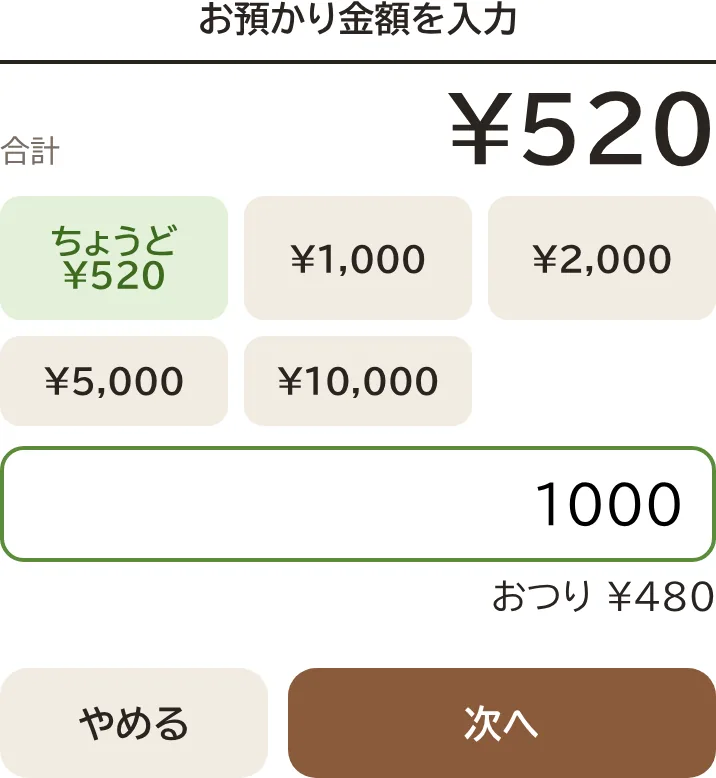
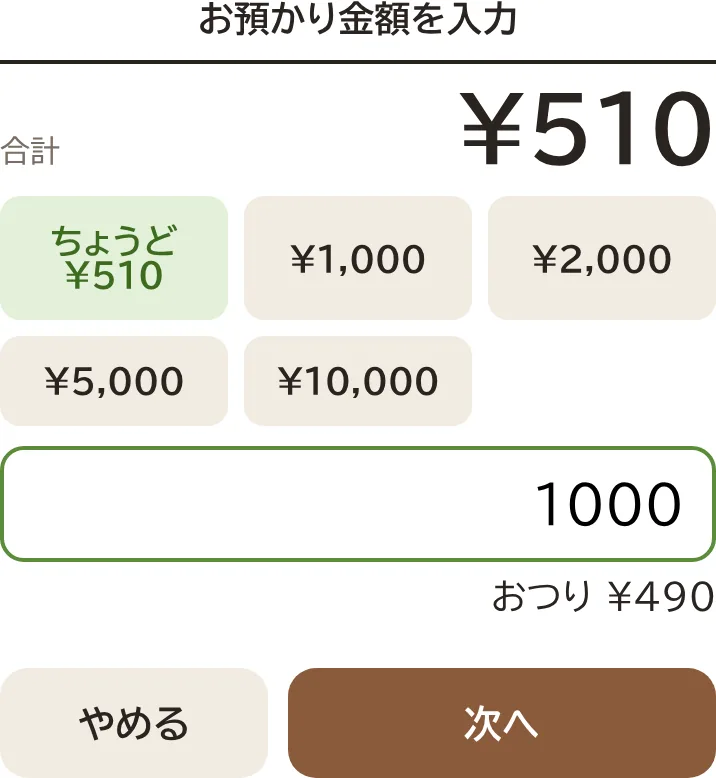
容器代を3本以上は一律1個（10円）に変更
- 容器代のルールに「容器の最大個数」（maxCount、0 = 上限なし）を追加し、初期値を1個に
- 管理画面の容器代のルールで最大個数を変更可能に（操作の記録にも残す）
- レジのヘルプ・README・スクリーンショットを新しい金額に更新
- Service Worker の VERSION を更新（レジが新しい計算に切り替わるように）

Claude-Session: https://claude.ai/code/session_01UZ9qf5eckTM6QSHGE7TDTL

Changed region(s): [[0.6145, 0.0925, 0.8911, 0.2159], [0.0922, 0.3393, 0.2458, 0.3702], [0.9218, 0.7404, 0.9525, 0.8021]]

diff --git a/public/admin.html b/public/admin.html
@@ -395,8 +395,8 @@
 
   <details>
     <summary>「あと1本で〜お得」と出たら？</summary>
-    <figure class="narrow"><img src="/help/reg-cart.webp" width="370" height="193" loading="lazy" alt="お会計欄。団子4本（3本セットと1本）、容器代10円、合計560円。あと1本で40円お得という提案と、5本にするボタン"></figure>
-    <p>本数を少し足したほうが合計が安くなるときに出る提案です。上の例では、団子4本だと560円ですが、5本にすると520円で40円安くなります。</p>
+    <figure class="narrow"><img src="/help/reg-cart.webp" width="370" height="193" loading="lazy" alt="お会計欄。団子4本（3本セットと1本）、容器代10円、合計560円。あと1本で50円お得という提案と、5本にするボタン"></figure>
+    <p>本数を少し足したほうが合計が安くなるときに出る提案です。上の例では、団子4本だと560円ですが、5本にすると510円で50円安くなります。</p>
     <p>お客さんに「あと1本足すとお得になりますよ」と声をかけて、希望されたら黄色の「5本にする」ボタンを押してください。そのままでよければ、何もせず会計に進んでかまいません。</p>
   </details>
 
@@ -405,11 +405,9 @@
     <p>容器代は、1回の会計の<b>団子の本数</b>から<b>自動で</b>計算して、合計に足しています（焼きマシュマロは対象外です。対象の商品とルールは管理画面で変えられます）。</p>
     <ul>
       <li>1〜2本: なし</li>
-      <li>3〜4本: 10円</li>
-      <li>5〜8本: 20円</li>
-      <li>9〜12本: 30円（以降4本ごとに10円ずつ増える）</li>
+      <li>3本以上: 10円（何本でも容器1個分）</li>
     </ul>
-    <p>容器がいらないお客さんなど、変える必要があるときは、容器代の「−」「＋」で10円ずつ直せます。直すと「手動」と表示され、「自動に戻す」で元に戻せます。本数を変えたときも自動に戻ります。</p>
+    <p>容器を2個以上渡すときや、容器がいらないお客さんなど、変える必要があるときは、容器代の「−」「＋」で10円ずつ直せます。直すと「手動」と表示され、「自動に戻す」で元に戻せます。本数を変えたときも自動に戻ります。</p>
   </details>
 
   <details>
@@ -421,13 +419,13 @@
 
   <details>
     <summary>現金のとき（お預かりとおつり）は？</summary>
-    <figure class="narrow"><img src="/help/reg-recv.webp" width="358" height="389" loading="lazy" alt="お預かり金額の入力画面。合計520円、ちょうどや1,000円などのボタン、入力欄、おつり480円の表示"></figure>
+    <figure class="narrow"><img src="/help/reg-recv.webp" width="358" height="389" loading="lazy" alt="お預かり金額の入力画面。合計510円、ちょうどや1,000円などのボタン、入力欄、おつり490円の表示"></figure>
     <p>現金では、先に<b>お預かり金額</b>を入れます。「ちょうど」や「¥1,000」などのボタンを押すか、下の欄に金額を入力してください。入れるとおつりが表示されます。合計より少ない金額では「次へ」が押せません。</p>
   </details>
 
   <details>
     <summary>確認画面では何を見ればいい？</summary>
-    <figure class="narrow"><img src="/help/reg-confirm.webp" width="358" height="451" loading="lazy" alt="確認画面。現金の表示、団子5本セット500円、容器代20円、合計520円、お預かり1,000円、おつり480円、いいえとはいのボタン"></figure>
+    <figure class="narrow"><img src="/help/reg-confirm.webp" width="358" height="451" loading="lazy" alt="確認画面。現金の表示、団子5本セット500円、容器代10円、合計510円、お預かり1,000円、おつり490円、いいえとはいのボタン"></figure>
     <p>いちばん上の色つきの帯が支払方法です（現金は緑、PayPay と d払いは赤）。本数、合計金額、現金ならおつりを確かめて、よければ「はい（記録する）」を押します。</p>
     <p>間違いに気づいたら「いいえ」を押すと、入力したお会計はそのままで前の画面に戻ります。現金で、お預かり金額だけを直したいときは「← お預かり金額を入力し直す」を押してください。</p>
   </details>

diff --git a/public/master.html b/public/master.html
@@ -132,7 +132,8 @@
     <h2>容器代のルール</h2>
     <div class="rule">
       容器代の対象が <input id="ruleFree" type="number" inputmode="numeric" min="0"> 個までは無料、それより多いときは
-      <input id="rulePer" type="number" inputmode="numeric" min="1"> 個ごとに <input id="ruleFee" type="number" inputmode="numeric" min="0"> 円
+      <input id="rulePer" type="number" inputmode="numeric" min="1"> 個ごとに <input id="ruleFee" type="number" inputmode="numeric" min="0"> 円。
+      容器は最大 <input id="ruleMax" type="number" inputmode="numeric" min="0"> 個まで（0 = 上限なし）
       <button class="btn" id="ruleBtn">変更する</button>
     </div>
     <div class="note" id="rulePreview"></div>
@@ -230,7 +231,8 @@
 
   <details>
     <summary>容器代のルールを変える</summary>
-    <p>「容器代の対象が○個までは無料、それより多いときは○個ごとに○円」の3つの数字を入れて「変更する」を押します。入力すると、下に「例：1〜2個 0円 / 3〜4個 10円 …」と結果が出るので確かめてください。</p>
+    <p>「容器代の対象が○個までは無料、それより多いときは○個ごとに○円。容器は最大○個まで」の4つの数字を入れて「変更する」を押します。入力すると、下に「例：1〜2個 0円 / 3〜16個 10円 …」と結果が出るので確かめてください。</p>
+    <p>初期設定は「2個までは無料、3個以上は何個でも容器1個（10円）」です。本数に応じて容器を増やしたいときは、最大の個数を 0（上限なし）にします。</p>
   </details>
 
   <details>
@@ -446,11 +448,11 @@
   // ---------- 容器代のルール ----------
   let ruleDirty = false;
   function renderRule(rule) {
-    if (!ruleDirty) { $('ruleFree').value = rule.freeUpTo; $('rulePer').value = rule.per; $('ruleFee').value = rule.fee; }
+    if (!ruleDirty) { $('ruleFree').value = rule.freeUpTo; $('rulePer').value = rule.per; $('ruleFee').value = rule.fee; $('ruleMax').value = rule.maxCount ?? 0; }
     previewRule();
   }
   function previewRule() {
-    const rule = { freeUpTo: Number($('ruleFree').value), per: Number($('rulePer').value) || 1, fee: Number($('ruleFee').value) };
+    const rule = { freeUpTo: Number($('ruleFree').value), per: Number($('rulePer').value) || 1, fee: Number($('ruleFee').value), maxCount: Number($('ruleMax').value) || 0 };
     const out = [];
     let from = 1;
     for (let n = 1; n <= 16; n++) {
@@ -459,9 +461,9 @@
     }
     $('rulePreview').textContent = '例：' + out.join(' / ') + ' …';
   }
-  ['ruleFree', 'rulePer', 'ruleFee'].forEach(id => $(id).addEventListener('input', () => { ruleDirty = true; previewRule(); }));
+  ['ruleFree', 'rulePer', 'ruleFee', 'ruleMax'].forEach(id => $(id).addEventListener('input', () => { ruleDirty = true; previewRule(); }));
   $('ruleBtn').onclick = async () => {
-    const body = { freeUpTo: Number($('ruleFree').value), per: Number($('rulePer').value), fee: Number($('ruleFee').value) };
+    const body = { freeUpTo: Number($('ruleFree').value), per: Number($('rulePer').value), fee: Number($('ruleFee').value), maxCount: Number($('ruleMax').value) || 0 };
     if (!confirm('容器代のルールを変更しますか？\n' + $('rulePreview').textContent)) return;
     ruleDirty = false;
     await run(() => api('container-rule', body), '容器代のルールを変更しました');

diff --git a/public/pricing.js b/public/pricing.js
@@ -6,12 +6,13 @@
  *     container: true/false（容器代の対象か）, active: true/false }
  *
  * 容器代のルール（rule）:
- *   { freeUpTo: 2, per: 4, fee: 10 }
- *   → 容器代の対象の合計が freeUpTo 以下なら 0円、それより多ければ per 個ごとに fee 円
- *     （初期値: 1〜2本 0円 / 3〜4本 10円 / 5〜8本 20円 / 以降4本ごとに +10円）
+ *   { freeUpTo: 2, per: 4, fee: 10, maxCount: 1 }
+ *   → 容器代の対象の合計が freeUpTo 以下なら 0円、それより多ければ per 個ごとに 1 個（fee 円）。
+ *     容器の数は maxCount 個まで（0 = 上限なし）
+ *     （初期値: 1〜2本 0円 / 3本以上は何本でも 1 個 10円）
  */
 
-export const DEFAULT_RULE = { freeUpTo: 2, per: 4, fee: 10 };
+export const DEFAULT_RULE = { freeUpTo: 2, per: 4, fee: 10, maxCount: 1 };
 
 export const DEFAULT_PRODUCTS = [
   { name: '団子', unit: '本', sets: [{ qty: 1, price: 150 }, { qty: 3, price: 400 }, { qty: 5, price: 500 }], container: true },
@@ -22,7 +23,9 @@ export const MAX_QTY = 200;   // 1会計・1商品あたりの上限
 
 export function containerFee(rule, n) {
   if (!(n > 0) || n <= rule.freeUpTo) return 0;
-  return Math.ceil(n / rule.per) * rule.fee;
+  let count = Math.ceil(n / rule.per);
+  if (rule.maxCount > 0) count = Math.min(count, rule.maxCount);   // 容器の数の上限
+  return count * rule.fee;
 }
 
 /**

diff --git a/src/index.js b/src/index.js
@@ -535,13 +535,14 @@ async function saveRule(db, body) {
     freeUpTo: intIn(body.freeUpTo, 0, 999, '無料になる数'),
     per: intIn(body.per, 1, 999, '何個ごとか'),
     fee: intIn(body.fee, 0, 10000, '容器代の金額'),
+    maxCount: intIn(body.maxCount ?? 0, 0, 999, '容器の数の上限'),
   };
   await db.prepare("INSERT INTO settings (key, value) VALUES ('container_rule', ?) ON CONFLICT(key) DO UPDATE SET value = excluded.value")
     .bind(JSON.stringify(rule)).run();
   return rule;
 }
 
-const ruleText = (r) => `${r.freeUpTo}個まで無料・${r.per}個ごとに${r.fee}円`;
+const ruleText = (r) => `${r.freeUpTo}個まで無料・${r.per}個ごとに${r.fee}円` + (r.maxCount > 0 ? `・最大${r.maxCount}個（${r.maxCount * r.fee}円）まで` : '・上限なし');
 const productText = (p) => `${p.name}：` + p.sets.map((s) => `${s.qty}${p.unit}${s.price}円`).join('・') +
   (p.container ? '（容器代対象）' : '') + (p.active ? '' : '（販売停止）');
 function productDiff(a, b) {

diff --git a/public/sw.js b/public/sw.js
@@ -6,7 +6,7 @@
  * - ネットワーク優先：つながれば最新を表示してキャッシュも更新、つながらない（または遅い）ときだけキャッシュを使う。
  * - アプリを更新したら VERSION を変える。新しい版が入ると古いキャッシュは消える。
  */
-const VERSION = '2026-11-01-5';
+const VERSION = '2026-11-01-6';
 const CACHE = 'mogiten-register-' + VERSION;
 const FONT_CACHE = 'mogiten-fonts-v1';      // Web フォント（版をまたいで使い回す）
 const SHELL = ['/admin', '/pricing.js', '/help.css', '/help.js'];

diff --git a/README.md b/README.md
@@ -31,10 +31,9 @@
   | 数 | 容器代（初期設定） |
   |---|---|
   | 1〜2本 | なし |
-  | 3〜4本 | 10円 |
-  | 5〜8本 | 20円 |
-  | 9〜12本 | 30円 |
-  | 以降4本ごとに | ＋10円 |
+  | 3本以上 | 10円（何本でも容器1個） |
+
+  容器を2個以上渡すときは、レジの容器代の −/＋ で直します。本数に応じて増やす計算に戻したいときは、管理画面の容器代のルールで「最大の個数」を 0（上限なし）にします。
 
 - 容器代は −/＋ で手動修正もできます（「手動」と表示され、「自動に戻す」で自動計算に戻せます）
 - 「現金」「PayPay」「d払い」ボタンを押すと、記録前に **確認のポップアップ** を表示
@@ -70,7 +69,7 @@
 - **商品・価格の管理**: 商品の追加、名前・単位・価格・セットの変更、容器代の対象の切り替え、販売停止（販売中の切り替え）、並び替え、削除（販売記録がない商品のみ）
   - 1個（1本）の価格は必須（どの数でも組めるようにするため）
   - 価格を変えても、すでに記録した会計の金額は変わりません（会計ごとに、その時の商品名と価格で保存）
-- **容器代のルール**の変更（何個まで無料か、何個ごとにいくらか）
+- **容器代のルール**の変更（何個まで無料か、何個ごとにいくらか、容器の最大個数）
 - 目標金額の変更
 - ログイン中の端末の一覧（名前・端末・最終利用時刻）と、1台ずつ／レジ全台の **締め出し**
 - レジのパスワードの変更（今のパスワード不要。同時に全台締め出しも可）
